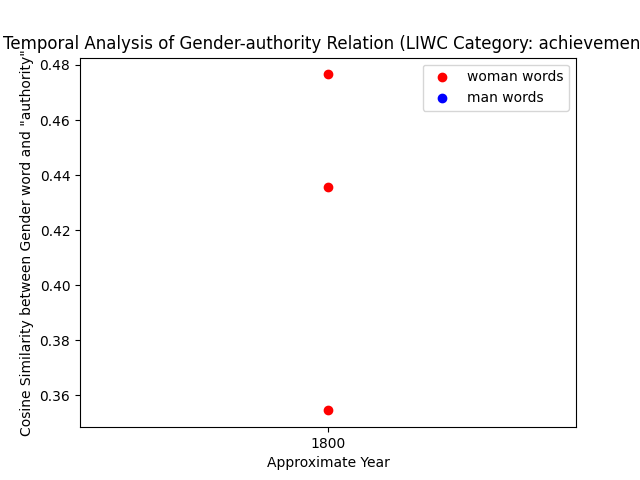
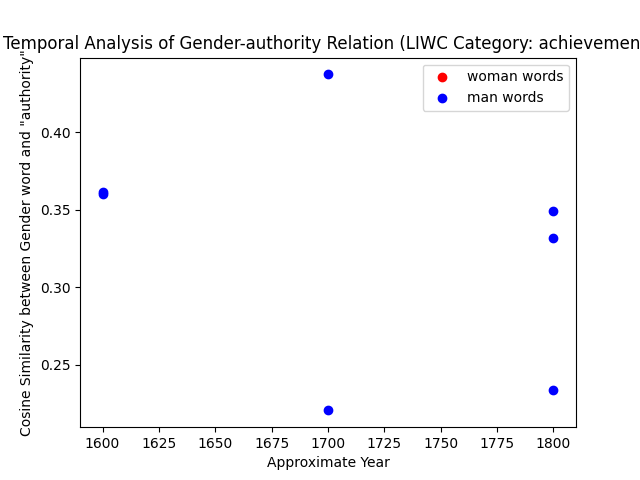
verify plots work

diff --git a/temporal_analysis_cosine.py b/temporal_analysis_cosine.py
@@ -21,7 +21,7 @@ textbook_chronological_dir = 'final_textbook_years/all_textbooks/'
 results_dir = 'temporal_analysis_cosine_results/'
 
 MODEL_OPTION = model_bert_textbook_dir # change this to analyze a different model!
-NUM_ANALYSIS_SENTENCES = 1000 # number of sentences to analyze PER time period (change to -1 to do all)
+NUM_ANALYSIS_SENTENCES = 100 # number of sentences to analyze PER time period (change to -1 to do all)
 # These keywords follow Lucy and Desmzky's set up
 man_words = set(['man', 'men', 'male', 'he', 'his', 'him'])
 woman_words = set(['woman', 'women', 'female', 'she', 'her', 'hers'])
@@ -118,8 +118,8 @@ def _get_years_and_sims(cosine_similarities, interest_word):
 def plot_temporal_changes(woman_cosine_similarities, man_cosine_similarities, interest_word, liwc_category):
     woman_years, woman_sims = _get_years_and_sims(woman_cosine_similarities, interest_word)
     man_years, man_sims = _get_years_and_sims(man_cosine_similarities, interest_word)
-    plt.scatter(woman_years, woman_sims, color='r', label='woman words')
-    plt.scatter(man_years, man_sims, color='b', label='man words')
+    plt.scatter(list(map(int,woman_years)), woman_sims, color='r', label='woman words')
+    plt.scatter(list(map(int,man_years)), man_sims, color='b', label='man words')
     plt.xlabel('Approximate Year')
     plt.ylabel('Cosine Similarity between Gender word and "%s"'%interest_word)
     plt.title('Temporal Analysis of Gender-%s Relation (LIWC Category: %s)'%(interest_word, liwc_category))
